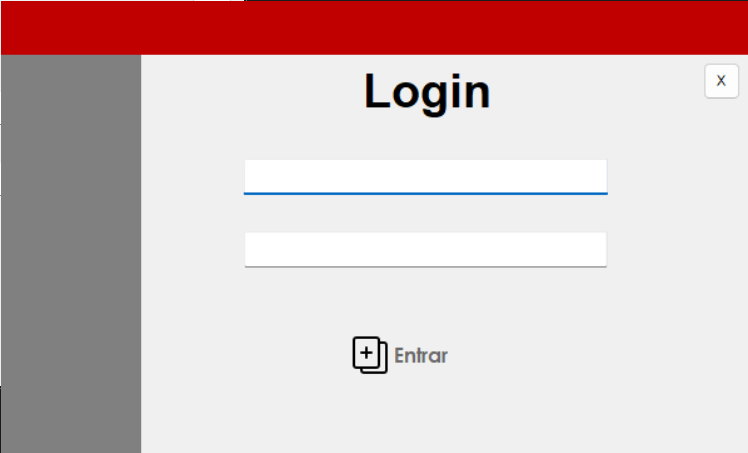
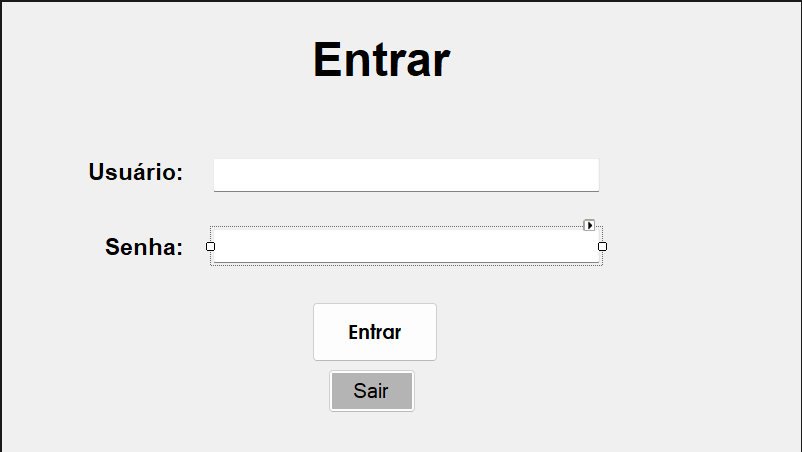
Novo

diff --git a/SistemaCadastro/FrmLogin.Designer.cs b/SistemaCadastro/FrmLogin.Designer.cs
@@ -2,15 +2,10 @@
 {
     partial class FrmLogin
     {
-        /// <summary>
-        /// Required designer variable.
-        /// </summary>
+        
         private System.ComponentModel.IContainer components = null;
 
-        /// <summary>
-        /// Clean up any resources being used.
-        /// </summary>
-        /// <param name="disposing">true if managed resources should be disposed; otherwise, false.</param>
+        
         protected override void Dispose(bool disposing)
         {
             if (disposing && (components != null))
@@ -33,26 +28,24 @@
             this.txtsenha = new System.Windows.Forms.TextBox();
             this.BtnConfirmaCadastro = new System.Windows.Forms.Button();
             this.btnFechar = new System.Windows.Forms.Button();
-            this.panel2 = new System.Windows.Forms.Panel();
-            this.panel3 = new System.Windows.Forms.Panel();
-            this.panel1 = new System.Windows.Forms.Panel();
-            this.panel2.SuspendLayout();
+            this.label2 = new System.Windows.Forms.Label();
+            this.label3 = new System.Windows.Forms.Label();
             this.SuspendLayout();
             // 
             // label1
             // 
             this.label1.AutoSize = true;
             this.label1.Font = new System.Drawing.Font("Arial", 28.2F, System.Drawing.FontStyle.Bold, System.Drawing.GraphicsUnit.Point, ((byte)(0)));
-            this.label1.Location = new System.Drawing.Point(375, 60);
+            this.label1.Location = new System.Drawing.Point(300, 30);
             this.label1.Name = "label1";
-            this.label1.Size = new System.Drawing.Size(153, 55);
+            this.label1.Size = new System.Drawing.Size(162, 55);
             this.label1.TabIndex = 0;
-            this.label1.Text = "Login";
+            this.label1.Text = "Entrar";
             // 
             // txtuser
             // 
             this.txtuser.Font = new System.Drawing.Font("Segoe UI", 12F);
-            this.txtuser.Location = new System.Drawing.Point(259, 155);
+            this.txtuser.Location = new System.Drawing.Point(211, 156);
             this.txtuser.Margin = new System.Windows.Forms.Padding(4);
             this.txtuser.Name = "txtuser";
             this.txtuser.Size = new System.Drawing.Size(387, 34);
@@ -62,7 +55,7 @@
             // txtsenha
             // 
             this.txtsenha.Font = new System.Drawing.Font("Segoe UI", 12F);
-            this.txtsenha.Location = new System.Drawing.Point(259, 226);
+            this.txtsenha.Location = new System.Drawing.Point(211, 227);
             this.txtsenha.Margin = new System.Windows.Forms.Padding(4);
             this.txtsenha.Name = "txtsenha";
             this.txtsenha.Size = new System.Drawing.Size(387, 34);
@@ -71,68 +64,62 @@
             // 
             // BtnConfirmaCadastro
             // 
+            this.BtnConfirmaCadastro.Cursor = System.Windows.Forms.Cursors.WaitCursor;
             this.BtnConfirmaCadastro.FlatAppearance.BorderSize = 0;
-            this.BtnConfirmaCadastro.FlatStyle = System.Windows.Forms.FlatStyle.Flat;
-            this.BtnConfirmaCadastro.Font = new System.Drawing.Font("Century Gothic", 12F, System.Drawing.FontStyle.Bold);
-            this.BtnConfirmaCadastro.ForeColor = System.Drawing.Color.DimGray;
-            this.BtnConfirmaCadastro.Image = global::SistemaCadastro.Properties.Resources.adicionar;
-            this.BtnConfirmaCadastro.Location = new System.Drawing.Point(353, 318);
+            this.BtnConfirmaCadastro.FlatStyle = System.Windows.Forms.FlatStyle.System;
+            this.BtnConfirmaCadastro.Font = new System.Drawing.Font("Century Gothic", 12F, System.Drawing.FontStyle.Bold, System.Drawing.GraphicsUnit.Point, ((byte)(0)));
+            this.BtnConfirmaCadastro.ForeColor = System.Drawing.Color.Black;
+            this.BtnConfirmaCadastro.ImageAlign = System.Drawing.ContentAlignment.TopCenter;
+            this.BtnConfirmaCadastro.Location = new System.Drawing.Point(310, 300);
             this.BtnConfirmaCadastro.Margin = new System.Windows.Forms.Padding(4);
             this.BtnConfirmaCadastro.Name = "BtnConfirmaCadastro";
-            this.BtnConfirmaCadastro.Size = new System.Drawing.Size(175, 60);
+            this.BtnConfirmaCadastro.Size = new System.Drawing.Size(126, 60);
             this.BtnConfirmaCadastro.TabIndex = 18;
             this.BtnConfirmaCadastro.Text = "Entrar";
-            this.BtnConfirmaCadastro.TextAlign = System.Drawing.ContentAlignment.MiddleLeft;
-            this.BtnConfirmaCadastro.TextImageRelation = System.Windows.Forms.TextImageRelation.ImageBeforeText;
             this.BtnConfirmaCadastro.UseVisualStyleBackColor = true;
+            this.BtnConfirmaCadastro.UseWaitCursor = true;
             this.BtnConfirmaCadastro.Click += new System.EventHandler(this.BtnConfirmaCadastro_Click);
             // 
             // btnFechar
             // 
-            this.btnFechar.Location = new System.Drawing.Point(748, 60);
+            this.btnFechar.BackColor = System.Drawing.SystemColors.ActiveBorder;
+            this.btnFechar.Font = new System.Drawing.Font("Microsoft Sans Serif", 12F, System.Drawing.FontStyle.Regular, System.Drawing.GraphicsUnit.Point, ((byte)(0)));
+            this.btnFechar.Location = new System.Drawing.Point(326, 367);
             this.btnFechar.Name = "btnFechar";
-            this.btnFechar.Size = new System.Drawing.Size(40, 37);
+            this.btnFechar.Size = new System.Drawing.Size(88, 44);
             this.btnFechar.TabIndex = 19;
-            this.btnFechar.Text = "X";
-            this.btnFechar.UseVisualStyleBackColor = true;
+            this.btnFechar.Text = "Sair";
+            this.btnFechar.UseVisualStyleBackColor = false;
+            this.btnFechar.UseWaitCursor = true;
             this.btnFechar.Click += new System.EventHandler(this.btnFechar_Click);
             // 
-            // panel2
+            // label2
             // 
-            this.panel2.BackColor = System.Drawing.Color.FromArgb(((int)(((byte)(192)))), ((int)(((byte)(0)))), ((int)(((byte)(0)))));
-            this.panel2.Controls.Add(this.panel3);
-            this.panel2.Dock = System.Windows.Forms.DockStyle.Top;
-            this.panel2.Location = new System.Drawing.Point(0, 0);
-            this.panel2.Margin = new System.Windows.Forms.Padding(4);
-            this.panel2.Name = "panel2";
-            this.panel2.Size = new System.Drawing.Size(800, 53);
-            this.panel2.TabIndex = 20;
+            this.label2.AutoSize = true;
+            this.label2.Font = new System.Drawing.Font("Arial", 13.8F, System.Drawing.FontStyle.Bold, System.Drawing.GraphicsUnit.Point, ((byte)(0)));
+            this.label2.Location = new System.Drawing.Point(81, 156);
+            this.label2.Name = "label2";
+            this.label2.Size = new System.Drawing.Size(107, 27);
+            this.label2.TabIndex = 20;
+            this.label2.Text = "Usuário:";
             // 
-            // panel3
+            // label3
             // 
-            this.panel3.Location = new System.Drawing.Point(60, 46);
-            this.panel3.Margin = new System.Windows.Forms.Padding(4);
-            this.panel3.Name = "panel3";
-            this.panel3.Size = new System.Drawing.Size(167, 161);
-            this.panel3.TabIndex = 2;
-            // 
-            // panel1
-            // 
-            this.panel1.BackColor = System.Drawing.Color.Gray;
-            this.panel1.Dock = System.Windows.Forms.DockStyle.Left;
-            this.panel1.Location = new System.Drawing.Point(0, 53);
-            this.panel1.Margin = new System.Windows.Forms.Padding(4);
-            this.panel1.Name = "panel1";
-            this.panel1.Size = new System.Drawing.Size(149, 397);
-            this.panel1.TabIndex = 21;
+            this.label3.AutoSize = true;
+            this.label3.Font = new System.Drawing.Font("Arial", 13.8F, System.Drawing.FontStyle.Bold, System.Drawing.GraphicsUnit.Point, ((byte)(0)));
+            this.label3.Location = new System.Drawing.Point(98, 231);
+            this.label3.Name = "label3";
+            this.label3.Size = new System.Drawing.Size(90, 27);
+            this.label3.TabIndex = 21;
+            this.label3.Text = "Senha:";
             // 
             // FrmLogin
             // 
             this.AutoScaleDimensions = new System.Drawing.SizeF(8F, 16F);
             this.AutoScaleMode = System.Windows.Forms.AutoScaleMode.Font;
             this.ClientSize = new System.Drawing.Size(800, 450);
-            this.Controls.Add(this.panel1);
-            this.Controls.Add(this.panel2);
+            this.Controls.Add(this.label3);
+            this.Controls.Add(this.label2);
             this.Controls.Add(this.btnFechar);
             this.Controls.Add(this.BtnConfirmaCadastro);
             this.Controls.Add(this.txtsenha);
@@ -142,7 +129,6 @@
             this.Name = "FrmLogin";
             this.StartPosition = System.Windows.Forms.FormStartPosition.CenterScreen;
             this.Text = "FrmLogin";
-            this.panel2.ResumeLayout(false);
             this.ResumeLayout(false);
             this.PerformLayout();
 
@@ -155,8 +141,7 @@
         private System.Windows.Forms.TextBox txtsenha;
         private System.Windows.Forms.Button BtnConfirmaCadastro;
         private System.Windows.Forms.Button btnFechar;
-        private System.Windows.Forms.Panel panel2;
-        private System.Windows.Forms.Panel panel3;
-        private System.Windows.Forms.Panel panel1;
+        private System.Windows.Forms.Label label2;
+        private System.Windows.Forms.Label label3;
     }
 }
